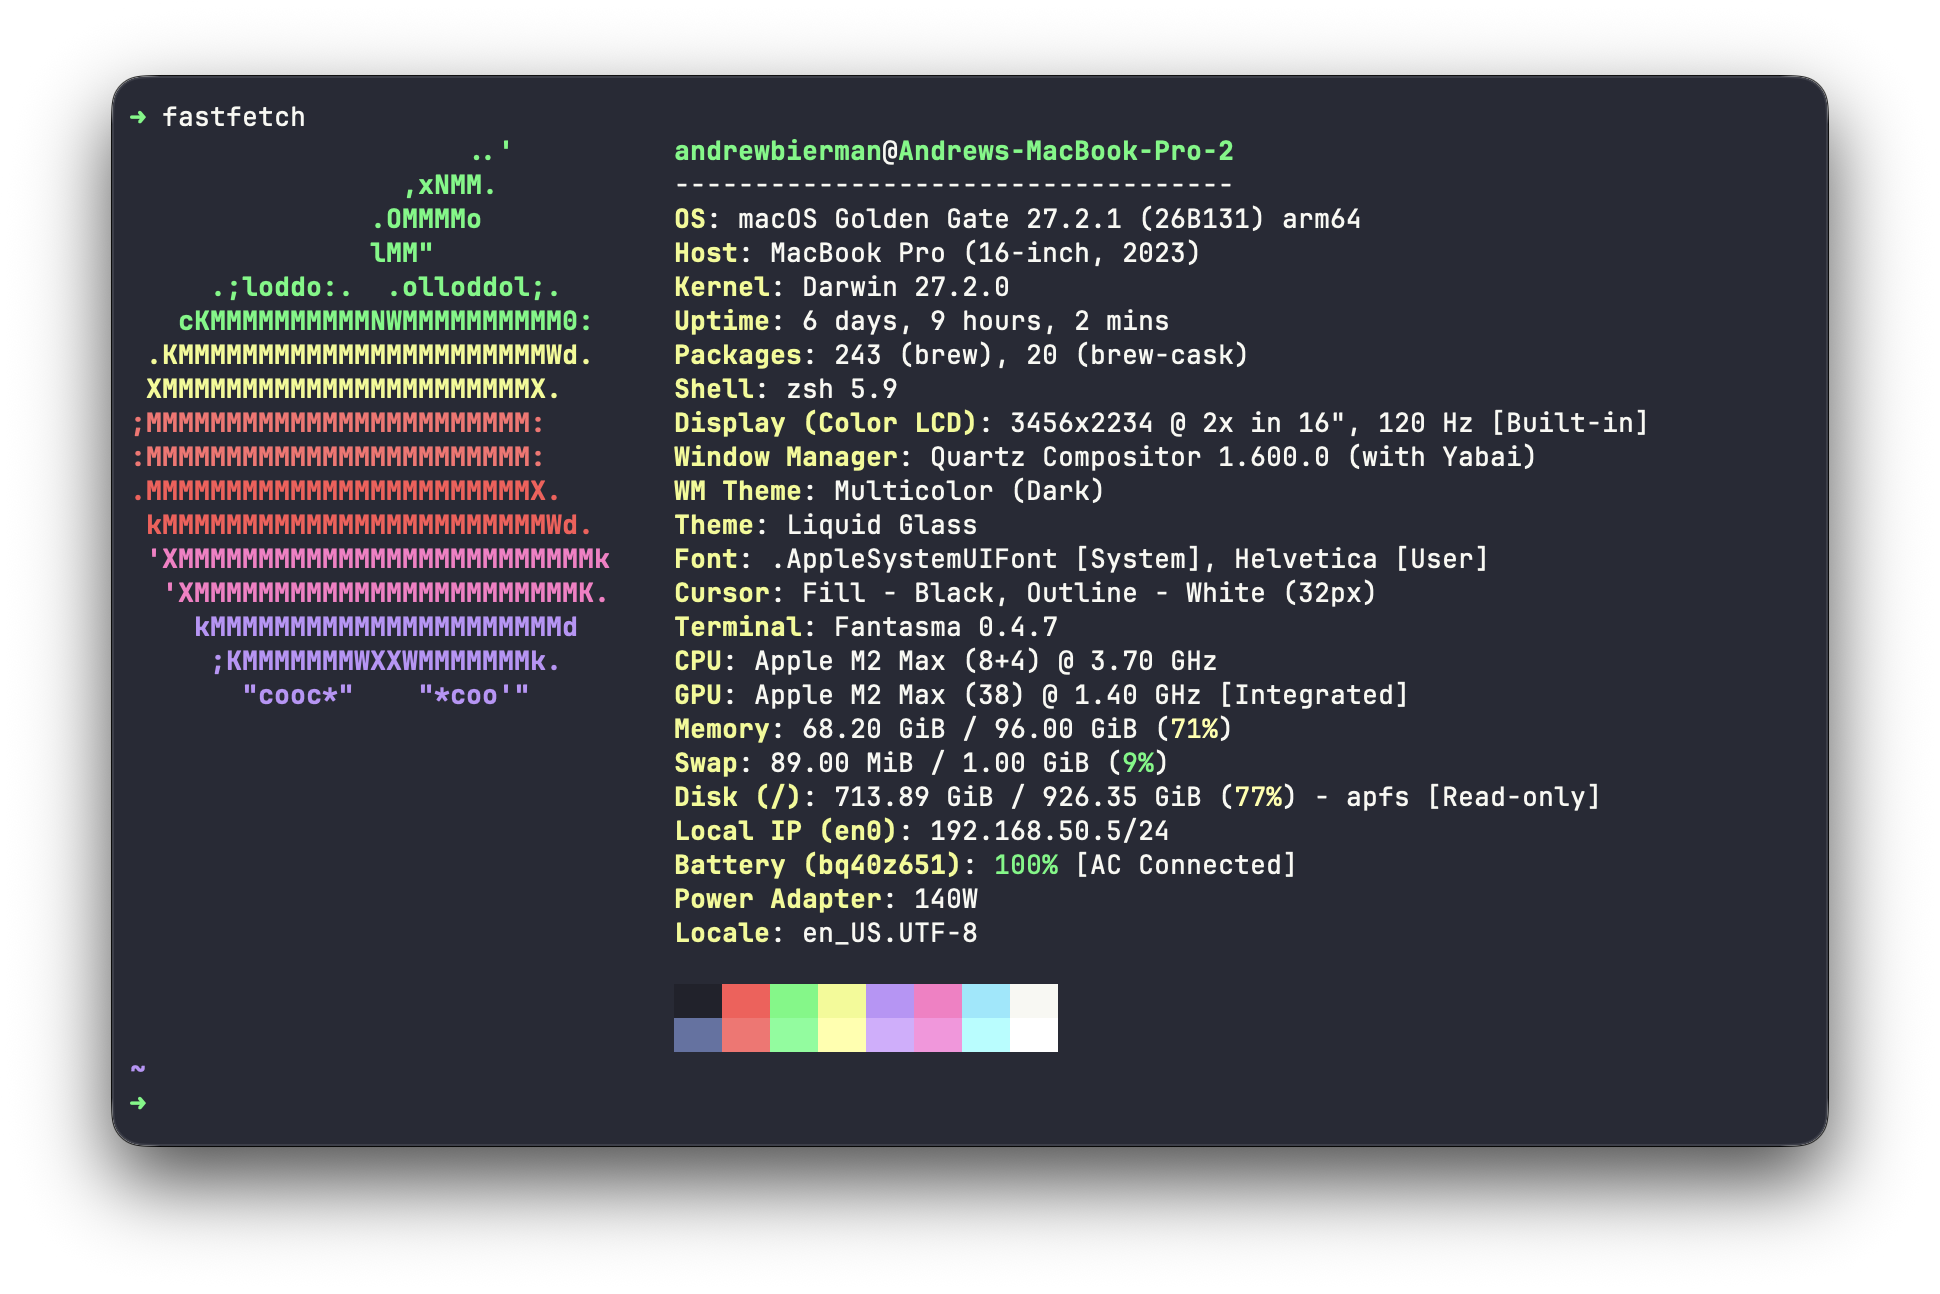
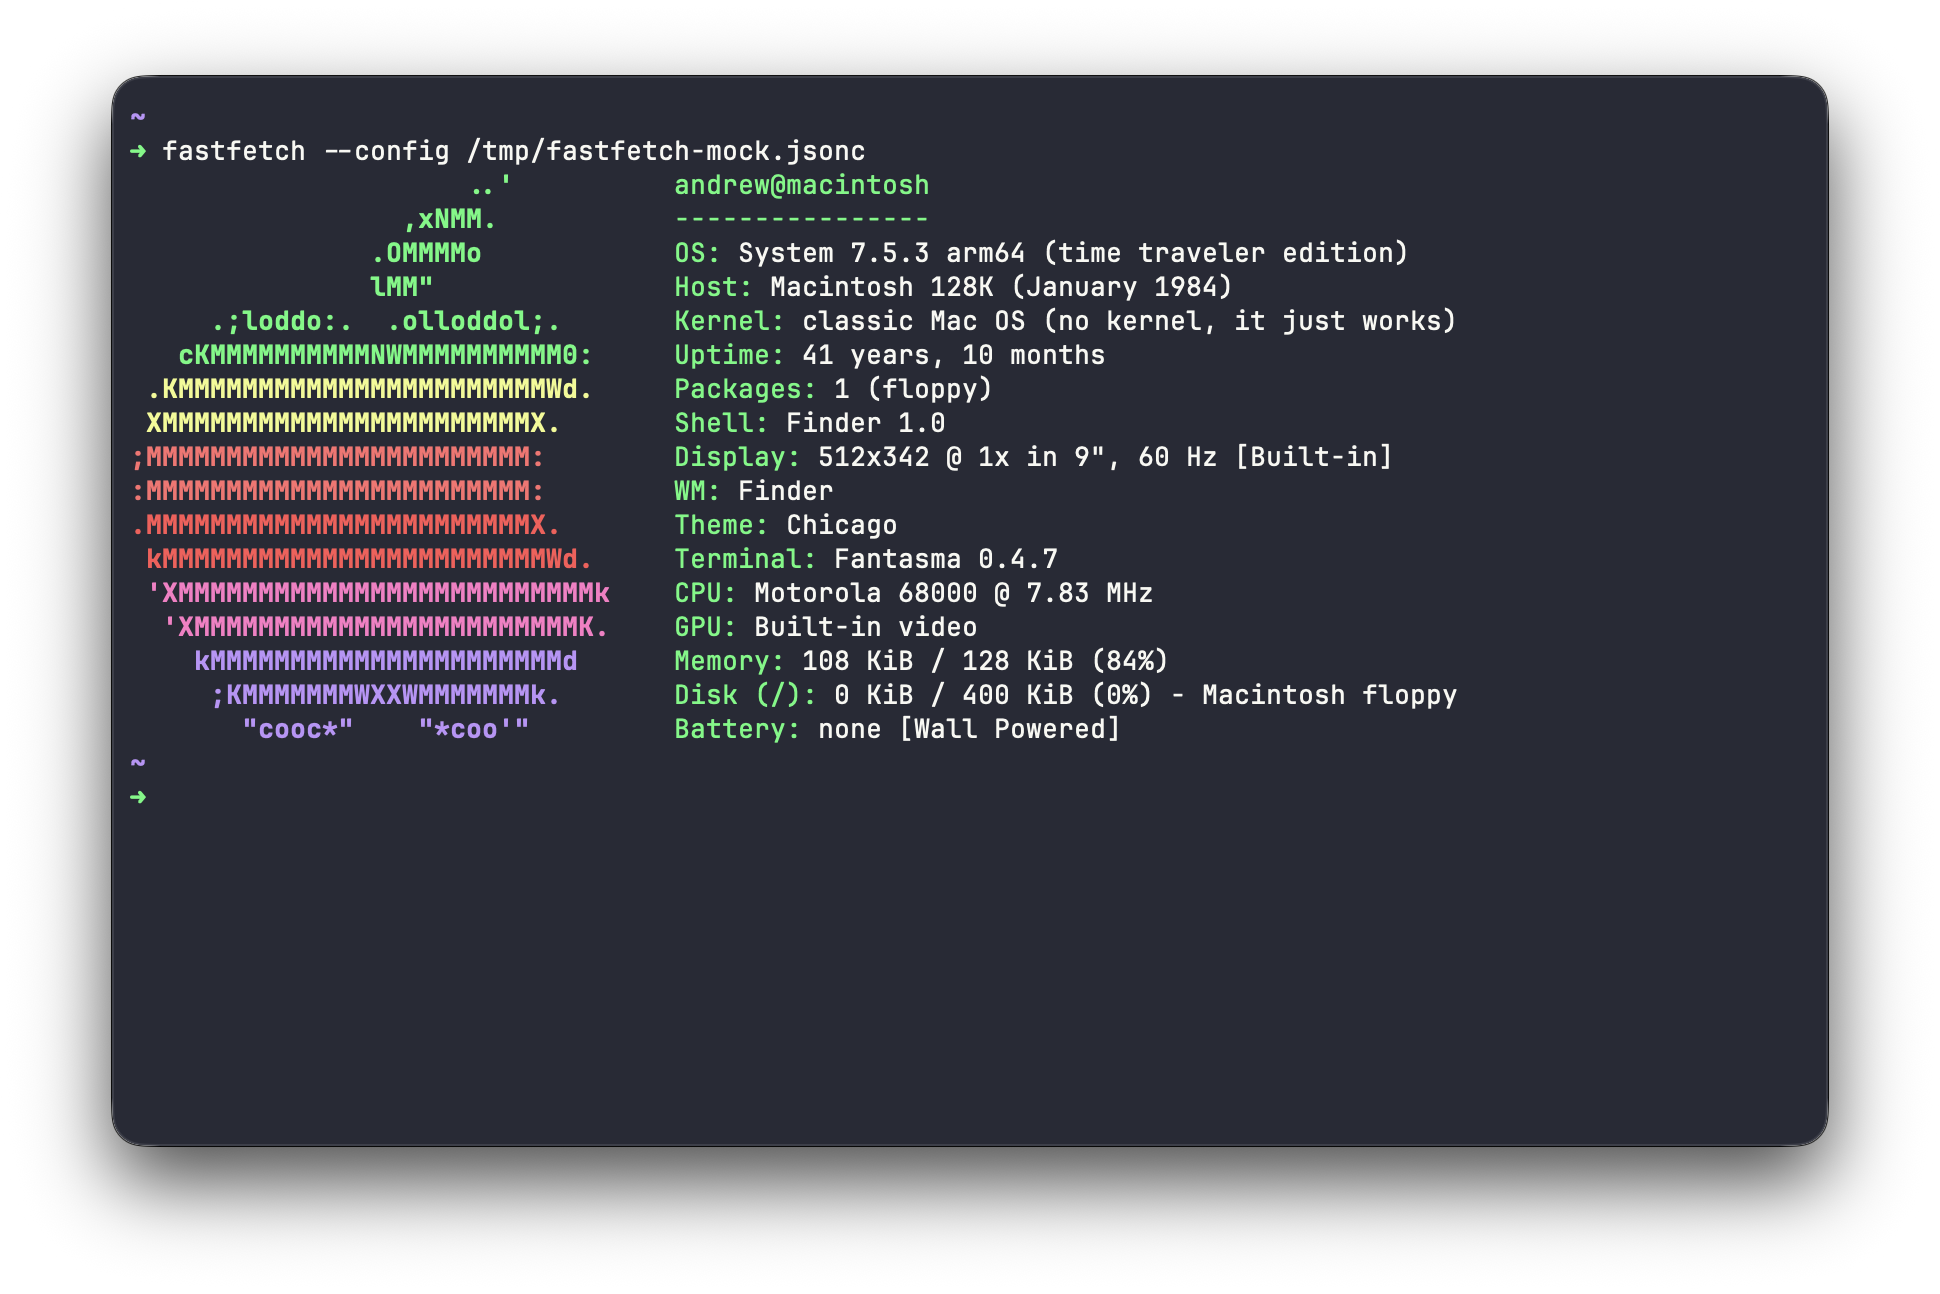
📸 Hero: retro Macintosh 128K mock fetch — no real system data in the public shot

diff --git a/README.md b/README.md
@@ -11,7 +11,7 @@ windows** your tiling manager treats like any other app. Built on
 engine, packaged for Apple platforms).
 
 <p align="center">
-  <img src="docs/screenshots/tiled.png" width="640" alt="A Fantasma tiled window — chrome-less, fastfetch, Dracula">
+  <img src="docs/screenshots/tiled.png" width="640" alt="A Fantasma tiled window — chrome-less, with a retro Macintosh 128K mock fetch">
 </p>
 
 No tabs. No splits. A quick terminal and regular windows, done well.
